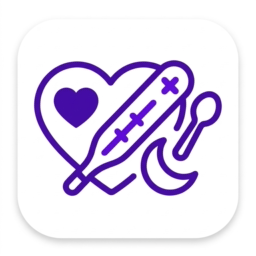
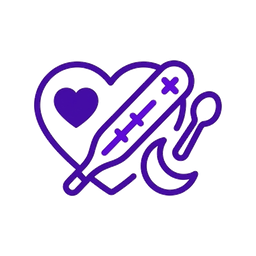
Use a transparent Alfred mark and drop the header's brand-name fallback
Keys out the icon's white card/background (chroma-keyed by saturation
since the source JPEG had no alpha) so the mark sits directly on
whatever backdrop it's placed on — matching the logo lockup as
supplied — instead of showing as a white square. Also stops the app
bar from falling back to showing "Alfred" as a placeholder title when
no child is selected yet.

diff --git a/src/App.vue b/src/App.vue
@@ -190,9 +190,7 @@ watch(
         <v-menu v-if="hasMultipleChildren" location="bottom">
           <template #activator="{ props: menuProps }">
             <div class="d-flex align-center" style="cursor: pointer" v-bind="menuProps">
-              <span class="text-subtitle-1 font-weight-bold">{{
-                activeChild?.name ?? t('common.appName')
-              }}</span>
+              <span class="text-subtitle-1 font-weight-bold">{{ activeChild?.name }}</span>
               <v-icon icon="mdi-chevron-down" size="18" class="ml-1" />
             </div>
           </template>
@@ -207,9 +205,7 @@ watch(
             </v-list-item>
           </v-list>
         </v-menu>
-        <span v-else class="text-subtitle-1 font-weight-bold">{{
-          activeChild?.name ?? t('common.appName')
-        }}</span>
+        <span v-else class="text-subtitle-1 font-weight-bold">{{ activeChild?.name }}</span>
       </v-app-bar-title>
       <template #append>
         <v-menu v-if="incomingItems.length" location="bottom end">

diff --git a/src/components/AlfredMark.vue b/src/components/AlfredMark.vue
@@ -11,7 +11,6 @@ withDefaults(defineProps<{ size?: number }>(), { size: 40 })
 <style scoped>
 .alfred-mark {
   display: block;
-  border-radius: 22%;
   object-fit: contain;
 }
 </style>
